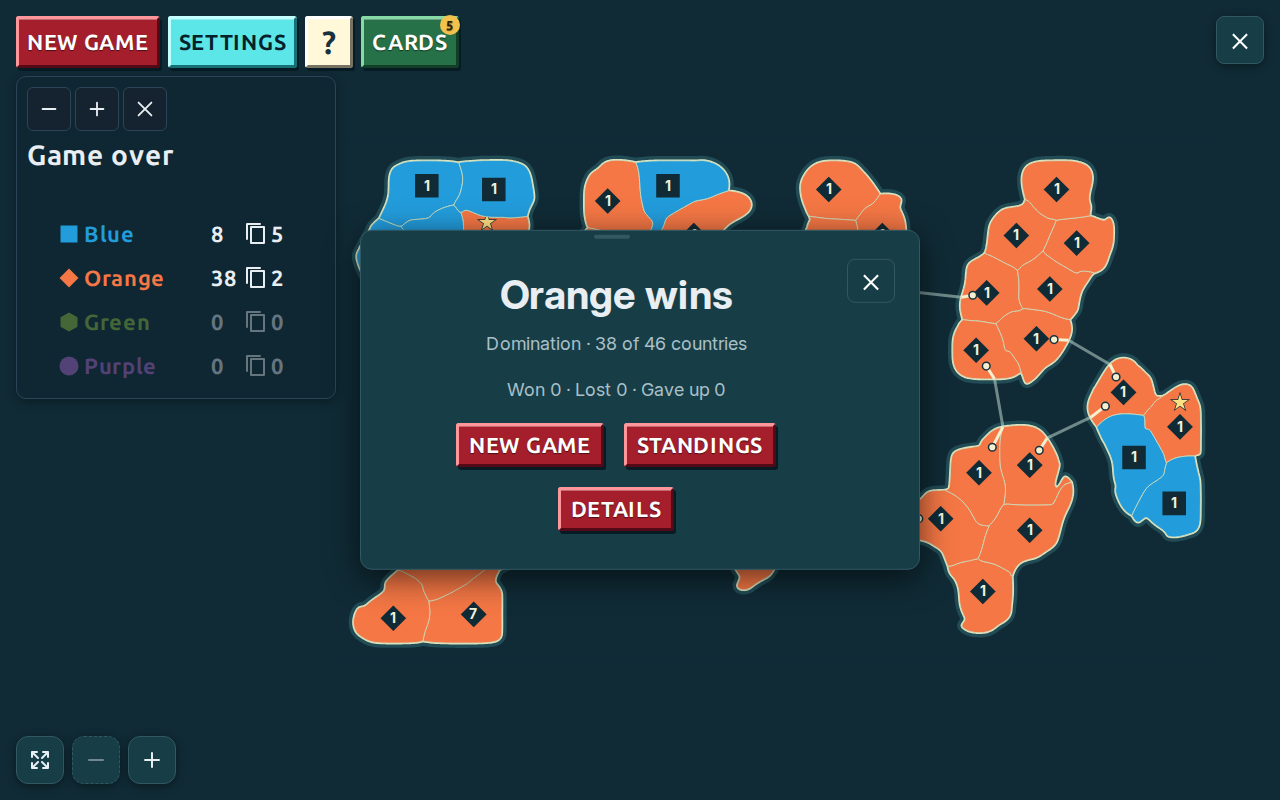
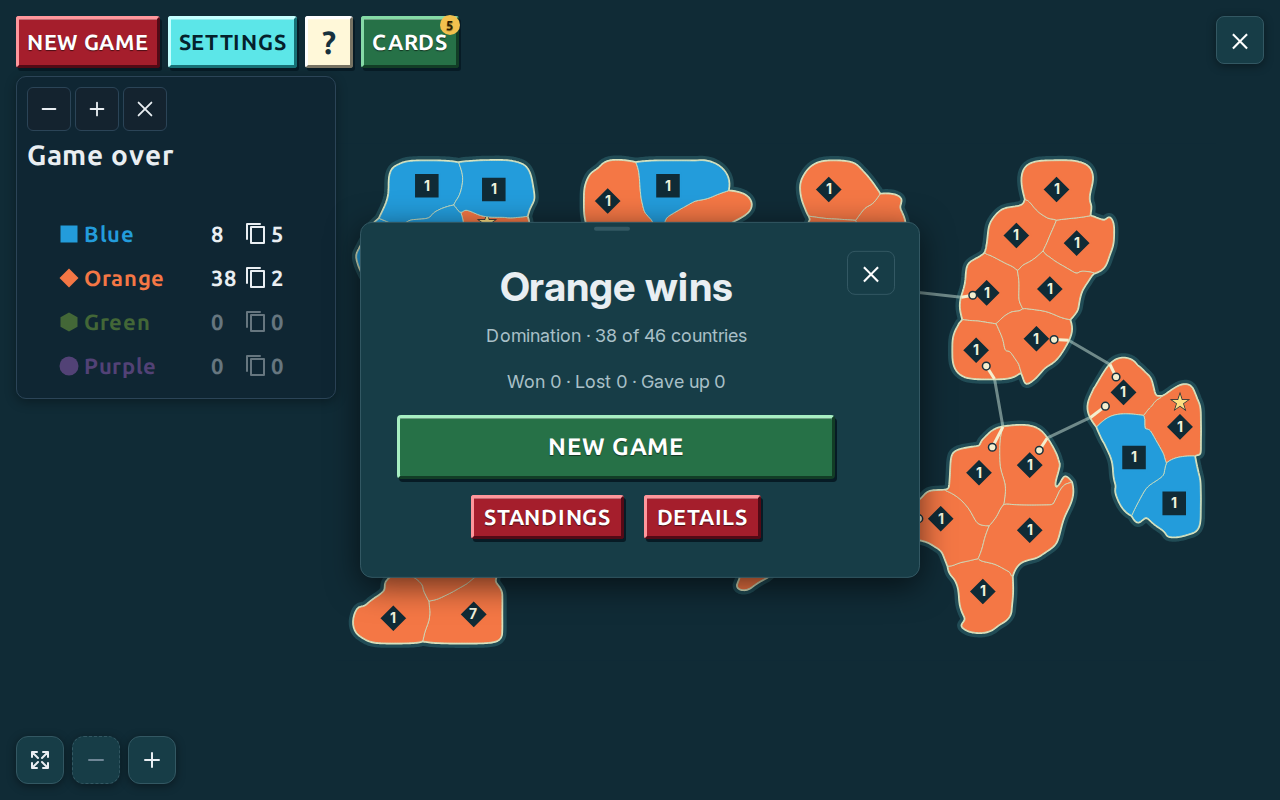
feat: make New game the prominent primary result action

diff --git a/tests/e2e/victory-primary.spec.ts b/tests/e2e/victory-primary.spec.ts
@@ -1,0 +1,57 @@
+import {test,expect} from '@playwright/test';
+import type {Page} from '@playwright/test';
+import {apply,defaultOptions,raidCardsRules,serializeVersionedMatch} from '../../src/core';
+import type {GameState} from '../../src/core';
+import {createGeographicGame} from '../../src/core/geographic-game';
+import {decideComputerAction} from '../../src/core/computer';
+import {computerView} from '../../src/core/computer-view';
+import {GEOGRAPHIC_V2_RAID_CARD_MATCH_IDENTITY} from '../../src/core/match-save';
+import {visitGame} from './shell';
+const KEY='malpaco:current-game',SCORES='malpaco:scoreboard';
+let cached:{text:string;last:GameState}|undefined;
+function winning(){
+ if(cached)return cached;
+ const options={...defaultOptions(),seed:5,names:'seed' as const,dominationWin:true,roundLimit:null};
+ const game=createGeographicGame(options,raidCardsRules(options),{},2);if(!game.ok)throw Error(game.errors.join('; '));
+ let state=game.state,last=state;
+ for(let n=0;n<3000&&!state.result;n++){
+  last=state;const action=decideComputerAction(computerView(state));if(!action)throw Error('No legal fixture action');const r=apply(state,action);if(!r.ok)throw Error(r.error);state=r.state;
+ }
+ const end=apply(last,{kind:'endTurn'});if(!end.ok||end.state.winner!=='seat1')throw Error('Expected a legal human win by End turn');
+ cached={text:serializeVersionedMatch(options,last.history,GEOGRAPHIC_V2_RAID_CARD_MATCH_IDENTITY),last};return cached;
+}
+async function start(page:Page,mode:string){
+ const f=winning();await page.clock.install();await page.clock.pauseAt(new Date());
+ await page.addInitScript(({text,mode,eventAck})=>{
+  if(sessionStorage.getItem('victory-primary'))return;sessionStorage.setItem('victory-primary','1');
+  localStorage.setItem('malpaco:current-game',text);localStorage.setItem('malpaco:current-game-meta',JSON.stringify({id:'victory-primary',paused:false,eventAck,eventMarksCleared:eventAck}));localStorage.setItem('malpaco:button-labels',mode);
+ },{text:f.text,mode,eventAck:f.last.events?.sequence??0});
+ await visitGame(page,'/');await page.evaluate(()=>document.fonts.ready);await page.clock.runFor(100);
+ await page.locator('#end-turn-button').click();await page.clock.runFor(3000);
+ await expect(page.locator('.victory-result .result-title')).toHaveText('You won');
+}
+async function reachable(page:Page,size:{width:number;height:number}){
+ const b=page.locator('#result-new-game-button');await b.scrollIntoViewIfNeeded();const r=(await b.boundingBox())!;
+ expect(r.x).toBeGreaterThanOrEqual(0);expect(r.y).toBeGreaterThanOrEqual(0);expect(r.x+r.width).toBeLessThanOrEqual(size.width);expect(r.y+r.height).toBeLessThanOrEqual(size.height);expect(r.height).toBeGreaterThanOrEqual(56);
+ expect(await b.evaluate(n=>{const r=n.getBoundingClientRect(),hit=document.elementFromPoint(r.x+r.width/2,r.y+r.height/2);return !!hit&&n.contains(hit);})).toBe(true);
+ return r;
+}
+test.beforeEach(({},info)=>test.skip(info.project.name!=='1280x800','explicit viewport matrix'));
+for(const size of [{width:390,height:844},{width:568,height:320},{width:820,height:1180},{width:1280,height:800}])for(const mode of ['text','icons','auto'])test(`${size.width} ${mode}: winning has a full-width primary New game, with exact-once score and explicit next start`,async({page})=>{
+ test.setTimeout(90000);await page.setViewportSize(size);await start(page,mode);
+ const primary=page.locator('#result-new-game-button'),row=page.locator('.victory-new-game');
+ await expect(row).toBeVisible();await expect(primary).toHaveAccessibleName('New game');const r=await reachable(page,size),parent=(await row.boundingBox())!;
+ expect(r.width).toBeGreaterThanOrEqual(parent.width-1);
+ for(const id of ['result-standings-button','result-details-button']){
+  const b=(await page.locator('#'+id).boundingBox())!;expect(r.width).toBeGreaterThan(b.width+16);expect(r.y+r.height).toBeLessThanOrEqual(b.y);
+ }
+ const title=(await page.locator('.victory-result .result-title').boundingBox())!;expect(title.y).toBeGreaterThanOrEqual(0);expect(title.y+title.height).toBeLessThanOrEqual(size.height);
+ if(await page.locator('body').getAttribute('data-button-labels')==='text')await expect(primary).toHaveText(/New game/i);else await expect(primary.locator('svg')).toBeVisible();
+ await page.screenshot({path:`artifacts/T165/victory-${size.width}-${mode}.png`});
+ const scores=await page.evaluate(k=>localStorage.getItem(k),SCORES);expect(JSON.parse(scores!).totals).toEqual({won:1,lost:0,gaveUp:0});expect(JSON.parse(scores!).recent).toHaveLength(1);
+ await page.locator('#result-standings-button').click();await page.locator('#result-details-button').click();await reachable(page,size);
+ await page.locator('#close-result-card').click();await expect(primary).toBeHidden();await page.locator('#open-required-action').click();await reachable(page,size);
+ if(mode==='text'){await primary.focus();await page.keyboard.press('Enter');}else await primary.click();
+ await expect(page.locator('#game-launcher')).toBeVisible();await expect(page.locator('#start-game')).toBeVisible();await expect(page.locator('#geographic-map')).toHaveCount(0);expect(await page.evaluate(k=>localStorage.getItem(k),SCORES)).toBe(scores);
+ await page.reload();await expect(page.locator('#game-launcher')).toBeVisible();expect(await page.evaluate(k=>localStorage.getItem(k),SCORES)).toBe(scores);
+});

diff --git a/src/ui/help.ts b/src/ui/help.ts
@@ -125,7 +125,7 @@ const HOW_TO: readonly (readonly [string, string])[] = [
   ["Map", "The bottom-left +/− zoom icons stay visible, including at Fit. Zoom Out is disabled at minimum zoom; Zoom In is disabled at maximum zoom. Pinch or scroll to zoom, drag to pan, Fit to see everything. Cards float over the map and move aside from the countries in play. If a tap touches several countries, the one covering the most area under your finger is chosen automatically and the map zooms in a little, without a chooser popup."],
   ["Button labels", "Choose Icons or Text, or Text 2 turns, then Icons in the launcher or Settings. The default shows text for your first two personal turns and then icons, including after resume. Explicit Text/Icons choices are preserved; your preference applies immediately and is kept across games, reloads and screen sizes. Attack and Move follow that choice even when both actions are available. Text and padding scale down on smaller screens while buttons keep usable touch targets. Map tools, including Zoom In/Out, amount controls and Close always keep standard symbols. New armies sit beside Cards at the top left and use an army symbol in icon mode. Use the selected region’s Move command; the bottom-right Move and province-list buttons are removed."],
   ["Phone and keyboard controls", "In Icons mode, play starts/resumes, flag ends the turn, crossed weapons attack and arrows move. A check mark confirms amounts. Tooltips and accessible names keep the action names. Use Tab and Enter/Space for controls; Shift activation selects without fighting an armed attack. At very short window heights, scroll the whole launcher; Start/Resume come first. Portrait and landscape layouts adapt to the window, with columns on wider screens. Taller launchers scroll only their settings if needed."],
-  ["Victory and results", "Normal games use Domination: finish your turn holding 35 of 46, 54 of 72 or 72 of 96 countries, or conquer all countries. Help's Objective shows your current match's target. Standings and Details expand the result; fold it to a chip to see the map. If eliminated, Watch computers or Stop game. The scoreboard in Settings records each outcome once and separates combat-rule groups."],
+  ["Victory and results", "Normal games use Domination: finish your turn holding 35 of 46, 54 of 72 or 72 of 96 countries, or conquer all countries. Help's Objective shows your current match's target. After a completed game, the large primary New game action opens the launcher; Start begins the next match. It stays prominent in icon mode. Standings and Details expand the result; fold it to a chip to see the map. If eliminated, Watch computers or Stop game. The scoreboard in Settings records each outcome once and separates combat-rule groups."],
   ["Local storage", "Games and scores belong to this browser and address. There is no account or cross-device sync; clearing site data removes them. A locally served game and the hosted game have separate saves. A paused game requires Resume. Next-game preferences never change a kept match."],
   ["Moving cards", "Drag a card by its grip or its edge to put it elsewhere; later cards open there too. Double-tap the grip, or start a new game, to put cards back in their corners."],
 ];

diff --git a/src/styles.css b/src/styles.css
@@ -2335,3 +2335,19 @@ body[data-button-labels="icons"] #turn-tracker { --resume-width:48px; }
  .game-overlay[data-primary-commands="true"] #game-focus-drawer:has(#friendly-move-direction) .game-drawer-content { grid-row:1; }
  .game-overlay[data-primary-commands="true"] #game-focus-drawer:has(#friendly-move-direction) #fold-card { position:absolute; right:12px; bottom:12px; top:auto; }
 }
+
+/* T165: the next game is the primary result action, in every label mode. */
+.game-overlay[data-primary-commands="true"] .victory-new-game { display:grid; width:100%; margin:0 0 16px; }
+.game-overlay[data-primary-commands="true"] .victory-new-game #result-new-game-button {
+ display:grid !important; place-items:center; width:100% !important; min-width:0 !important; max-width:100%; height:64px !important; min-height:64px !important;
+ background:#267147 !important; color:#fff !important; border:3px solid !important; border-color:#a7efc2 #123d26 #123d26 #a7efc2 !important; border-radius:4px !important; box-shadow:2px 3px 0 #071b25,inset 0 1px 0 #fff5 !important;
+}
+.game-overlay[data-primary-commands="true"] .victory-new-game #result-new-game-button.game-text-command { font-size:24px !important; }
+.game-overlay[data-primary-commands="true"] .victory-new-game #result-new-game-button.game-mobile-command > svg { width:32px !important; height:32px !important; color:inherit !important; stroke:currentColor !important; }
+@media (max-height:500px) {
+ .game-overlay[data-primary-commands="true"] #game-focus-drawer .victory-result:has(.victory-new-game) .result-title { margin:0 0 8px; font-size:24px; }
+ .game-overlay[data-primary-commands="true"] #game-focus-drawer .victory-result:has(.victory-new-game) .card-note { margin:0 0 8px; font-size:14px; line-height:1.35; }
+ .game-overlay[data-primary-commands="true"] #game-focus-drawer .victory-result:has(.victory-new-game) .victory-choices { gap:8px; }
+ .game-overlay[data-primary-commands="true"] .victory-new-game { margin-bottom:12px; }
+ .game-overlay[data-primary-commands="true"] .victory-new-game #result-new-game-button { height:56px !important; min-height:56px !important; }
+}

diff --git a/src/ui/victoryView.ts b/src/ui/victoryView.ts
@@ -15,7 +15,7 @@ export class VictoryView {
   private standingsOpen = false;
   private detailsOpen = false;
 
-  constructor(private readonly controller: BattleController, private readonly links: { newGame: () => void; menu: () => void; details?: () => readonly string[]; files?: boolean; history?: boolean; totals?: () => string } = { newGame: () => {}, menu: () => {} }) {}
+  constructor(private readonly controller: BattleController, private readonly links: { newGame: () => void; menu: () => void; details?: () => readonly string[]; files?: boolean; history?: boolean; prominentNewGame?: boolean; totals?: () => string } = { newGame: () => {}, menu: () => {} }) {}
 
   render(state: GameState, revision: number): void {
     this.el.replaceChildren();
@@ -62,8 +62,10 @@ export class VictoryView {
         iconButton("stop-game-button", "Stop game", "Stop game", "stop", false, () => this.controller.dispatch({ kind: "stopGame" }, revision)),
         standingsButton, detailsButton));
     } else {
+      const newGame=iconButton("result-new-game-button", "New game", "New game", "new-game", false, () => this.links.newGame(), true);
+      if(this.links.prominentNewGame)this.el.append(h('div',{class:'victory-new-game'},newGame));
       this.el.append(h("div", { class: "card-icons victory-choices" },
-        iconButton("result-new-game-button", "New game", "New game", "new-game", false, () => this.links.newGame(), true),
+        ...(this.links.prominentNewGame?[]:[newGame]),
         standingsButton,
         // T101: the history is off the player's screen; `?log` brings it back (tests and bug reports).
         ...(this.links.history ? [iconButton("result-history-button", "History", "History", "history", false, () => this.links.menu())] : []),

diff --git a/src/ui/referenceBattleGame.ts b/src/ui/referenceBattleGame.ts
@@ -199,7 +199,7 @@ export class ReferenceBattleGame {
     this.phaseActions = this.panel.el.querySelector<HTMLElement>(".buttons")!;
     this.battle = new BattleView(this.controller, () => { this.controller.select(null, null); this.chrome?.close(); });
     this.friendly = new FriendlyMoveView(this.controller,Boolean(presentation?.player));
-    this.victory = new VictoryView(this.controller, {newGame: () => this.newGame(), menu: () => this.chrome?.openMenu(), files: this.showsFiles, history: this.showsLog, ...(presentation?.player?.record && presentation.player.totals ? {totals: presentation.player.totals} : {}),
+    this.victory = new VictoryView(this.controller, {prominentNewGame:Boolean(presentation?.player),newGame: () => this.newGame(), menu: () => this.chrome?.openMenu(), files: this.showsFiles, history: this.showsLog, ...(presentation?.player?.record && presentation.player.totals ? {totals: presentation.player.totals} : {}),
       details: () => [`Seed: ${options.seed}`, `Seats: ${this.controller.state.players.map(player => `${seatName(this.controller.state.players, player.id)} ${player.kind === "computer" ? "Computer" : "Human"}`).join(" · ")}`,
         `Victory: ${options.dominationWin ? "Domination" : "Total conquest"}${options.roundLimit ? ` · Round limit ${options.roundLimit}` : ""}`, `Map: ${presentation?.label ?? "Nine Isles"}`]});
     this.action = this.panel.el.querySelector<HTMLElement>(".action")!;

diff --git a/docs/play.md b/docs/play.md
@@ -147,9 +147,9 @@ You are eliminated with no countries. The loss screen can offer **Watch computer
 
 ![Expanded end-of-game result with further actions](manual-images/results.png)
 
-*The result identifies the winner or your elimination. Open Standings or Details; fold the card to inspect the map.*
+*The result identifies the winner or your elimination. New game is the main action after a completed game; Standings and Details remain secondary.*
 
-The result card folds to a compact chip and reopens. **Standings** shows countries and armies; **Details** includes the seed and match options. Historical round-limit games rank by countries, then armies, then later position in that round's turn order. The ordinary launcher has no round-limit or total-conquest-only switch.
+**New game** is the large primary action above Standings and Details after a completed game. It opens the launcher; choose Start when ready. It keeps its primary size in icon mode too. The result card folds to a compact chip and reopens. **Standings** shows countries and armies; **Details** includes the seed and match options. Historical round-limit games rank by countries, then armies, then later position in that round's turn order. The ordinary launcher has no round-limit or total-conquest-only switch.
 
 Open the trophy **Scoreboard** in Settings for games played, wins, losses, give-ups, win rate and the last 20 games, newest first. Each game counts once. Rule filters distinguish combat groups; older entries can be Legacy/unspecified. Reset asks before clearing. Scores belong to this browser, not an online ranking.
 
